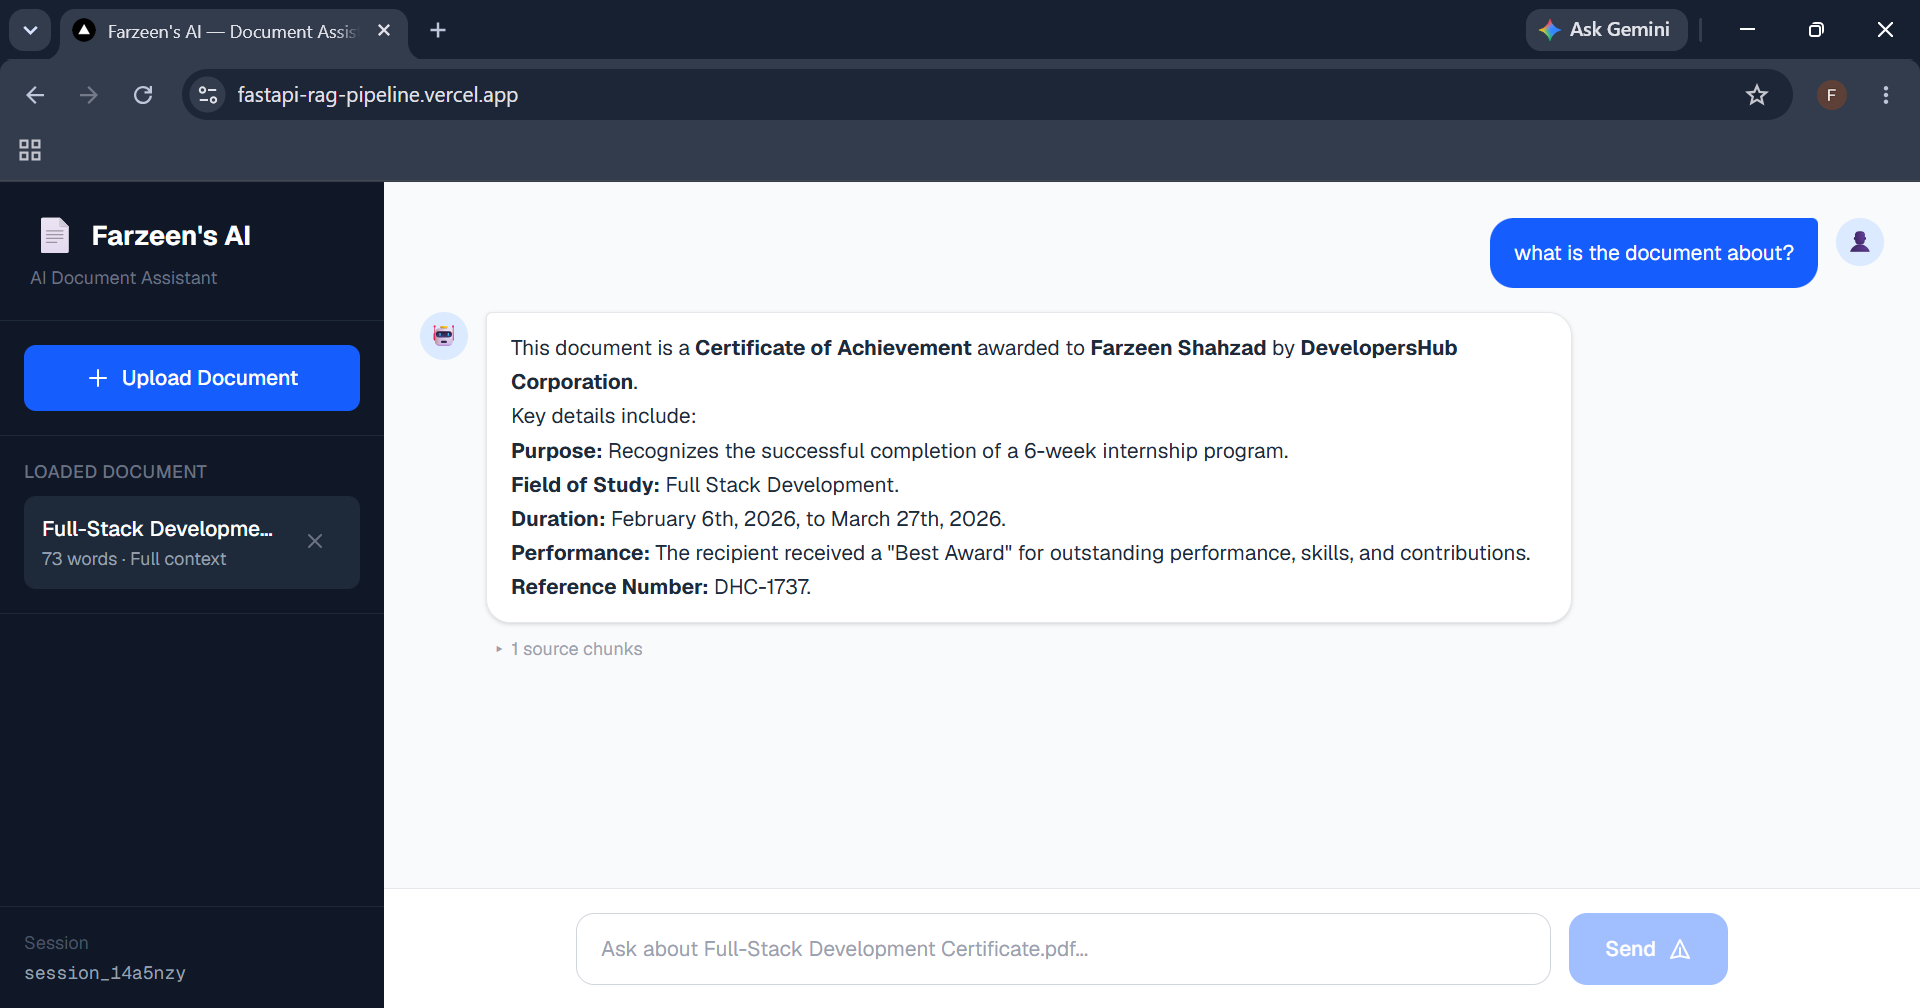
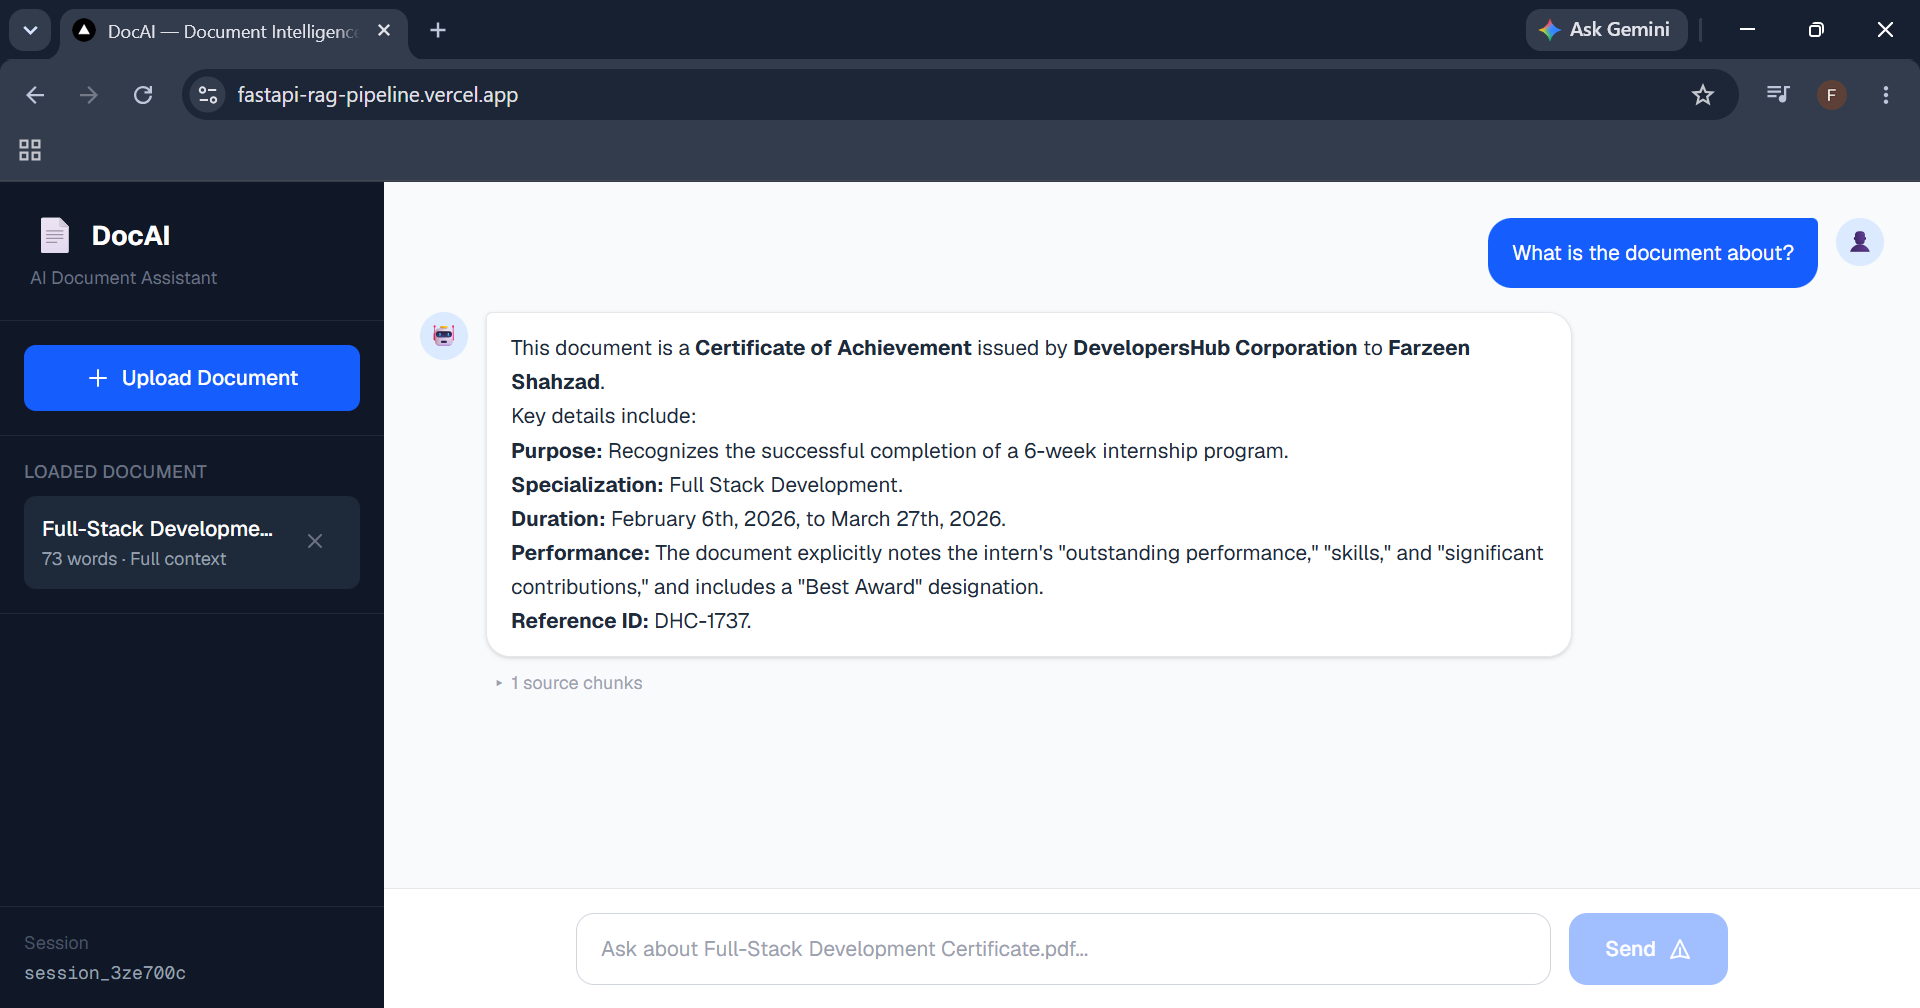
docs: finalize README and screenshots with DocAI branding

diff --git a/README.md b/README.md
@@ -1,4 +1,4 @@
-# ⚡ Farzeen's AI — Full-Stack Hybrid RAG Pipeline
+# ⚡ DocAI — Full-Stack Hybrid RAG Pipeline
 
 [![FastAPI](https://img.shields.io/badge/FastAPI-005571?style=for-the-badge&logo=fastapi)](https://fastapi.tiangolo.com)
 [![Next.js](https://img.shields.io/badge/Next.js-000000?style=for-the-badge&logo=nextdotjs&logoColor=white)](https://nextjs.org/)
